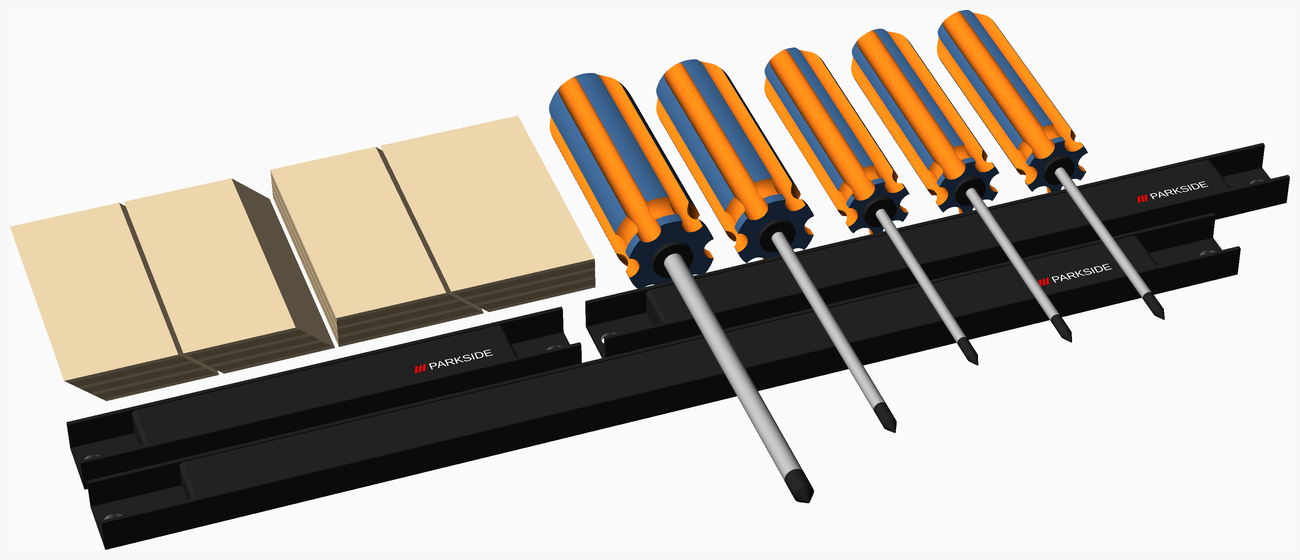
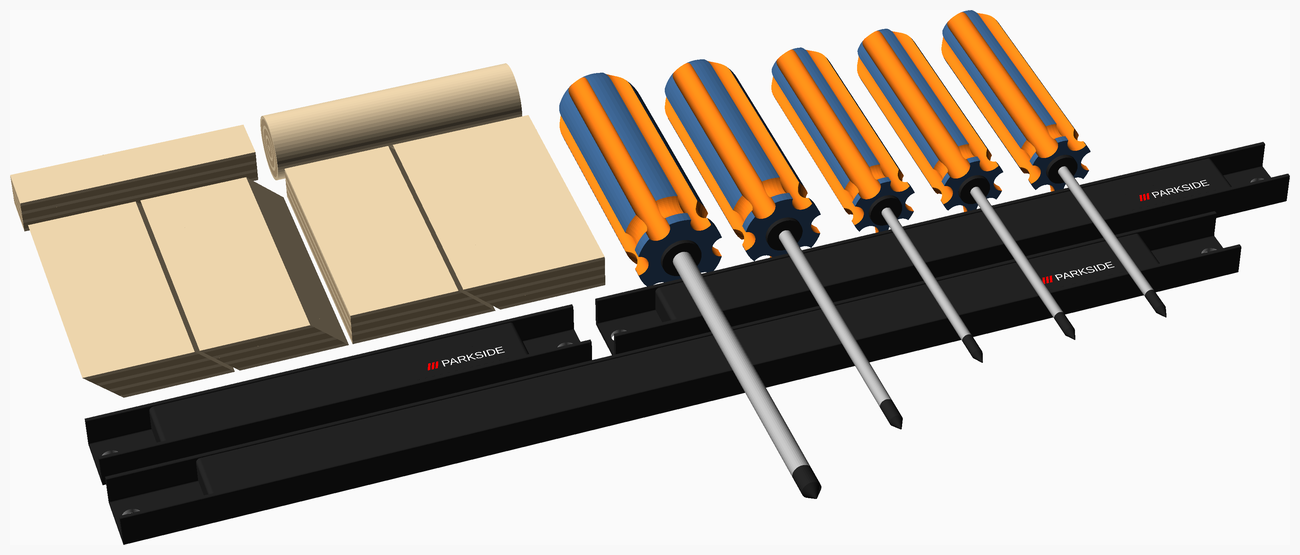
feat: add wood cylinder vitamin (#6)

diff --git a/readme.md b/readme.md
@@ -38,7 +38,7 @@ just projects    # Generate all projects
 <table><tr>
 <th align="left"> Vitamins A-H </th><th align="left"> Vitamins I-Q </th><th align="left"> Vitamins R-Z </th></tr>
 <tr><td> <a href = "#french_cleats">French_cleats</a> </td><td> <a href = "#magnet_bars">Magnet_bars</a> </td><td> <a href = "#screwdrivers">Screwdrivers</a> </td></tr>
-<tr><td></td><td> <a href = "#plywoods">Plywoods</a> </td><td></td></tr>
+<tr><td></td><td> <a href = "#plywoods">Plywoods</a> </td><td> <a href = "#wood_cylinder">Wood_cylinder</a> </td></tr>
 </table>
 
 ---
@@ -155,6 +155,30 @@ Screwdriver
 |   2 | `screwdriver(210,100,28.5,19,13.5,4.5,)` |  Screwdriver 210x100 |
 |   1 | `screwdriver(240,125,34.5,23,15.5,5.5,)` |  Screwdriver 240x125 |
 |   1 | `screwdriver(270,150,37.5,25,17,8,)` |  Screwdriver 270x150 |
+
+
+<a href="#top">Top</a>
+
+---
+<a name="wood_cylinder"></a>
+## Wood_cylinder
+Wood cylinder
+
+[vitamins/wood_cylinder.scad](vitamins/wood_cylinder.scad) Implementation.
+
+[tests/wood_cylinder.scad](tests/wood_cylinder.scad) Code for this example.
+
+### Modules
+| Module | Description |
+|:--- |:--- |
+| `wood_cylinder(nb_ply, height, diameter)` | Draw a wood cylinder |
+
+![wood_cylinder](tests/png/wood_cylinder.png)
+
+### Vitamins
+| Qty | Module call | BOM entry |
+| ---:|:--- |:---|
+|   1 | `wood_cylinder(7,108,28)` | 7 Plies wood cylinder 108x28 mm |
 
 
 <a href="#top">Top</a>
